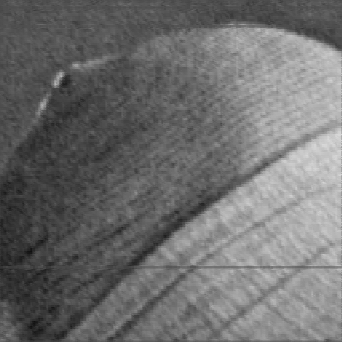
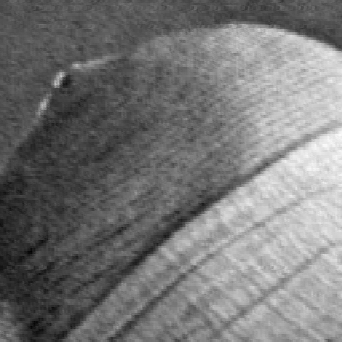
ghosting effect gone, lines too

diff --git a/Denoiser.py b/Denoiser.py
@@ -3,154 +3,155 @@
 
 from Patch import *
 from PIL import Image
+from joblib import Parallel, delayed
+import multiprocessing
 
 
 class Denoiser:
 
-    def __init__(self, filename):
-        self.noised_image = Image.open(filename)
-        self.prepare_image()
-        self.denoised_image = Image.new("""L""", (self.noised_image.size[0], self.noised_image.size[1]))
-        self.patchs_array = [[]]
-        self.closest_patchs_array = []
-        self.closest_patchs_array_current_size = 0
-        self.closest_patchs_array_maximum_size = 5
-    # end def
+	def __init__(self, filename):
+		self.window_size = 5
+		self.patch_size = 1
+		self.noised_image = Image.open(filename)
+		self.prepare_image()
+		self.denoised_image = Image.new("""L""", (self.noised_image.size[0], self.noised_image.size[1]))
+		self.patchs_array = [[]]
+		self.closest_patchs_array = []
+		self.closest_patchs_array_current_size = 0
+		self.closest_patchs_array_maximum_size = 5
 
-    @staticmethod
-    def display_image_details(image):
-        print("""{ Format :""", image.format,
-              """; Mode :""", image.mode,
-              """; Size :""", image.size, """}""")
-    # end def
+	# end def
 
-    # def dist_max(tab_patch):
-    #     ind = 0
-    #     max = tab_patch[0][2]
-    #     for i in range(tab_patch.__sizeof__):
-    #         if max < tab_patch[i][2]:
-    #             ind = i
-    #     return ind
+	@staticmethod
+	def display_image_details(image):
+		print("""{ Format :""", image.format,
+			  """; Mode :""", image.mode,
+			  """; Size :""", image.size, """}""")
 
-    def triDist(self):
-        for i in range(1,tab):
-            tmp = 0
-            while(i - tmp> 0 and self[i - tmp][2] < self[i - 1 - tmp][2]):
-                tmp2 = self[i - tmp]
-                self[i - tmp] = self[i - tmp - 1]
-                self[i - 1 - tmp] = tmp2
+	# end def
 
+	def get_index_of_maximal_distance(self, tab):
+		index = 0
+		maximum = tab[0][2]
+		for i in range(1, len(tab)):
+			if maximum < tab[i][2]:
+				index = i
+				maximum = tab[i][2]
+			# end if
+		# end for
+		# print("""maximum""", maximum, """index""", index)
+		return index
 
-    def get_index_of_maximal_distance(self):
-        index = 0
-        maximum = self.closest_patchs_array[0][2]
-        for i in range(1, self.closest_patchs_array_maximum_size):
-            if maximum < self.closest_patchs_array[i][2]:
-                index = i
-                maximum = self.closest_patchs_array[i][2]
-            # end if
-        # end for
-        #print("""maximum""", maximum, """index""", index)
-        return index
-    # end def
+	# end def
 
-    def init_patchs_array(self, size):
-        self.patchs_array = [[Patch((0,0), 0, self.noised_image)] * self.denoised_image.height] * self.denoised_image.width
+	def init_patchs_array(self, size):
+		self.patchs_array = [[Patch((0, 0), 0,
+									self.noised_image)] * self.denoised_image.height] * self.denoised_image.width
 
-        for x in range(self.denoised_image.width):
-            for y in range(self.denoised_image.height):
-                self.patchs_array[x][y] = Patch((x, y), size, self.noised_image)
-            # end for
-        # end for
-        #print("grid 1:", self.patchs_array[0][0].grid[0][0])
-    # end def
+		for x in range(self.denoised_image.width):
+			for y in range(self.denoised_image.height):
+				self.patchs_array[x][y] = Patch((x, y), size, self.noised_image)
+			# end for
+		# end for
+		# print("grid 1:", self.patchs_array[0][0].grid[0][0])
 
-    def prepare_image(self):
-        if self.noised_image.mode != """L""":
-            # Convert to a greyscale system
-            self.noised_image = self.noised_image.convert("""L""")
-        # end if
-    # end def
+	# end def
 
-    def run(self, patch_size, window_size):
-        distance = 0
-        pixel = 0
-        self.init_patchs_array(patch_size)
-        self.closest_patchs_array = []
+	def prepare_image(self):
+		if self.noised_image.mode != """L""":
+			# Convert to a greyscale system
+			self.noised_image = self.noised_image.convert("""L""")
+		# end if
 
-        #print("grid :", self.patchs_array[5][15].grid[0][0])
-        # Image width
-        for x in range(self.denoised_image.width):
-            # Image height
-            for y in range(self.denoised_image.height):
-                # Window width
-                self.closest_patchs_array.clear()
-                self.closest_patchs_array_current_size = 0
-                for u in range(window_size):
-                    # Window height
-                    for t in range(window_size):
-                        if (
-                            x + u - ((window_size - 1) / 2) >= 0
-                            and y + t - ((window_size - 1) / 2) >= 0
-                            and x + u - ((window_size - 1) / 2) < self.denoised_image.width
-                            and y + t - ((window_size - 1) / 2) < self.denoised_image.height
-                        ):
-                            tmp = self.patchs_array[x][y].compare_grid(self.patchs_array[x + u- int((window_size - 1) / 2)][y + t- int((window_size - 1) / 2)])
-                            #print("patch : ", self.patchs_array[x][y].grid[2][2])
-                            if self.closest_patchs_array_current_size < self.closest_patchs_array_maximum_size:
-                                self.closest_patchs_array.append([u, t, tmp])
-                                self.closest_patchs_array_current_size += 1
-                            # end if
-                            else:
-                                self.closest_patchs_array[self.get_index_of_maximal_distance()] = [x + u- int((window_size - 1) / 2), y + t- int((window_size - 1) / 2), tmp]
-                            # end else
-                        # end if
-                    # end for
-                # end for
-                pixel = 0
-                distance = 0
-                for n in self.closest_patchs_array:
-                    distance += n[2]
-                # end for
-              #  if distance == 0:
-                    #pixel = self.noised_image.getpixel((self.closest_patchs_array[0][0], self.closest_patchs_array[0][1]))
-                  #  self.denoised_image.putpixel((x, y), self.noised_image.getpixel((x,y)))
-                    #print(x, y)
-             #   else:
-                for n in self.closest_patchs_array:
-                    pixel += self.noised_image.getpixel((n[0], n[1])) / 5
-                self.denoised_image.putpixel((x, y), int(pixel))
-                       # print(pixel)
-                #print("Valeur pixel : ",pixel)
-                # end for
+	# end def
 
+	def funDenoise(self, x):
+		for y in range(self.denoised_image.height):
+			# Window width
+			closest_patchs_array = []
+			closest_patchs_array_current_size = self.closest_patchs_array_current_size
+			closest_patchs_array_maximum_size = self.closest_patchs_array_maximum_size
+			for u in range(self.window_size):
+				# Window height
+				for t in range(self.window_size):
+					if (
+							x + u - ((self.window_size - 1) / 2) >= 0
+							and y + t - ((self.window_size - 1) / 2) >= 0
+							and x + u - ((self.window_size - 1) / 2) < self.denoised_image.width
+							and y + t - ((self.window_size - 1) / 2) < self.denoised_image.height
+					):
+						tmp = self.patchs_array[x][y].compare_grid(
+							self.patchs_array[x + u - int((self.window_size - 1) / 2)][
+								y + t - int((self.window_size - 1) / 2)])
+						# print("patch : ", self.patchs_array[x][y].grid[2][2])
+						if closest_patchs_array_current_size < closest_patchs_array_maximum_size:
+							closest_patchs_array.append([x + u - int((self.window_size - 1) / 2), y + t - int((self.window_size - 1) / 2), tmp])
+							closest_patchs_array_current_size += 1
+						# end if
+						else:
+							closest_patchs_array[self.get_index_of_maximal_distance(closest_patchs_array)] = [
+								x + u - int((self.window_size - 1) / 2), y + t - int((self.window_size - 1) / 2), tmp]
+						# end else
+					# end if
+				# end for
+			# end for
+			pixel = 0
+			distance = 0
+			for n in closest_patchs_array:
+				distance += n[2]
+			# end for
+			#  if distance == 0:
+			# pixel = self.noised_image.getpixel((self.closest_patchs_array[0][0], self.closest_patchs_array[0][1]))
+			#  self.denoised_image.putpixel((x, y), self.noised_image.getpixel((x,y)))
+			# print(x, y)
+			#   else:
+			for n in closest_patchs_array:
+				pixel += self.noised_image.getpixel((n[0], n[1])) / 5
+			self.denoised_image.putpixel((x, y), int(pixel))
 
-            # end for
-        # end for
-    # end def
+	def run(self, patch_size, window_size):
+		distance = 0
+		pixel = 0
+		self.init_patchs_array(patch_size)
+		self.closest_patchs_array = []
+		self.patch_size = patch_size
+		self.window_size = window_size
+		# print("grid :", self.patchs_array[5][15].grid[0][0])
+		# Image width
+		# for x in range(self.denoised_image.width):
+		# Image height
+		#   self.funDenoise(x)
+		num_cores = multiprocessing.cpu_count()
+		inputs = range(self.denoised_image.width)
+		Parallel(n_jobs=1)(delayed(self.funDenoise)(i) for i in inputs)
+		# end for
+		# end for
 
-    def show(self, choice):
-        if choice == """input""":
-            self.noised_image.show()
-        elif choice == """output""":
-            self.denoised_image.show()
-        else:
-            print("""Invalid parameter "choice" for Denoiser.show(choice)""")
-    # end def
+	# end def
+
+	def show(self, choice):
+		if choice == """input""":
+			self.noised_image.show()
+		elif choice == """output""":
+			self.denoised_image.show()
+		else:
+			print("""Invalid parameter "choice" for Denoiser.show(choice)""")
+	# end def
+
 
 # end class
 
 
 if __name__ == """__main__""":
-    denoiser = Denoiser("""pictures/input.png""")
-    # for x in range(denoiser.noised_image.width):
-    #     for y in range(denoiser.noised_image.height):
-    #         print(denoiser.noised_image.getpixel((x, y)))
-    #     # end for
-    # # end for
-    #denoiser.init_patchs_array(1)
-    denoiser.run(1, 5)
-    denoiser.denoised_image.save("pictures/output.png", "PNG")
-    denoiser.show("""input""")
-    denoiser.show("""output""")
+	denoiser = Denoiser("""pictures/input.png""")
+	# for x in range(denoiser.noised_image.width):
+	#     for y in range(denoiser.noised_image.height):
+	#         print(denoiser.noised_image.getpixel((x, y)))
+	#     # end for
+	# # end for
+	# denoiser.init_patchs_array(1)
+	denoiser.run(1, 5)
+	denoiser.denoised_image.save("pictures/output.png", "PNG")
+	denoiser.show("""input""")
+	denoiser.show("""output""")
 # end if

diff --git a/Patch.py b/Patch.py
@@ -57,7 +57,6 @@ class Patch(Grid):
         # end for
     # end def
 
-    # TODO: fix this method
     def compare_grid(self, grid):
         distance = 0
         for x in range(self.abscissa_size):
@@ -68,7 +67,7 @@ class Patch(Grid):
                     and grid.grid[x][y] != -1
                     and self.grid[x][y] != -1
                 ):
-                    #print("on passe dedans")
+                    # print("on passe dedans")
                     distance += abs(grid.grid[x][y] - self.grid[x][y])
                 # end if
             # end for
